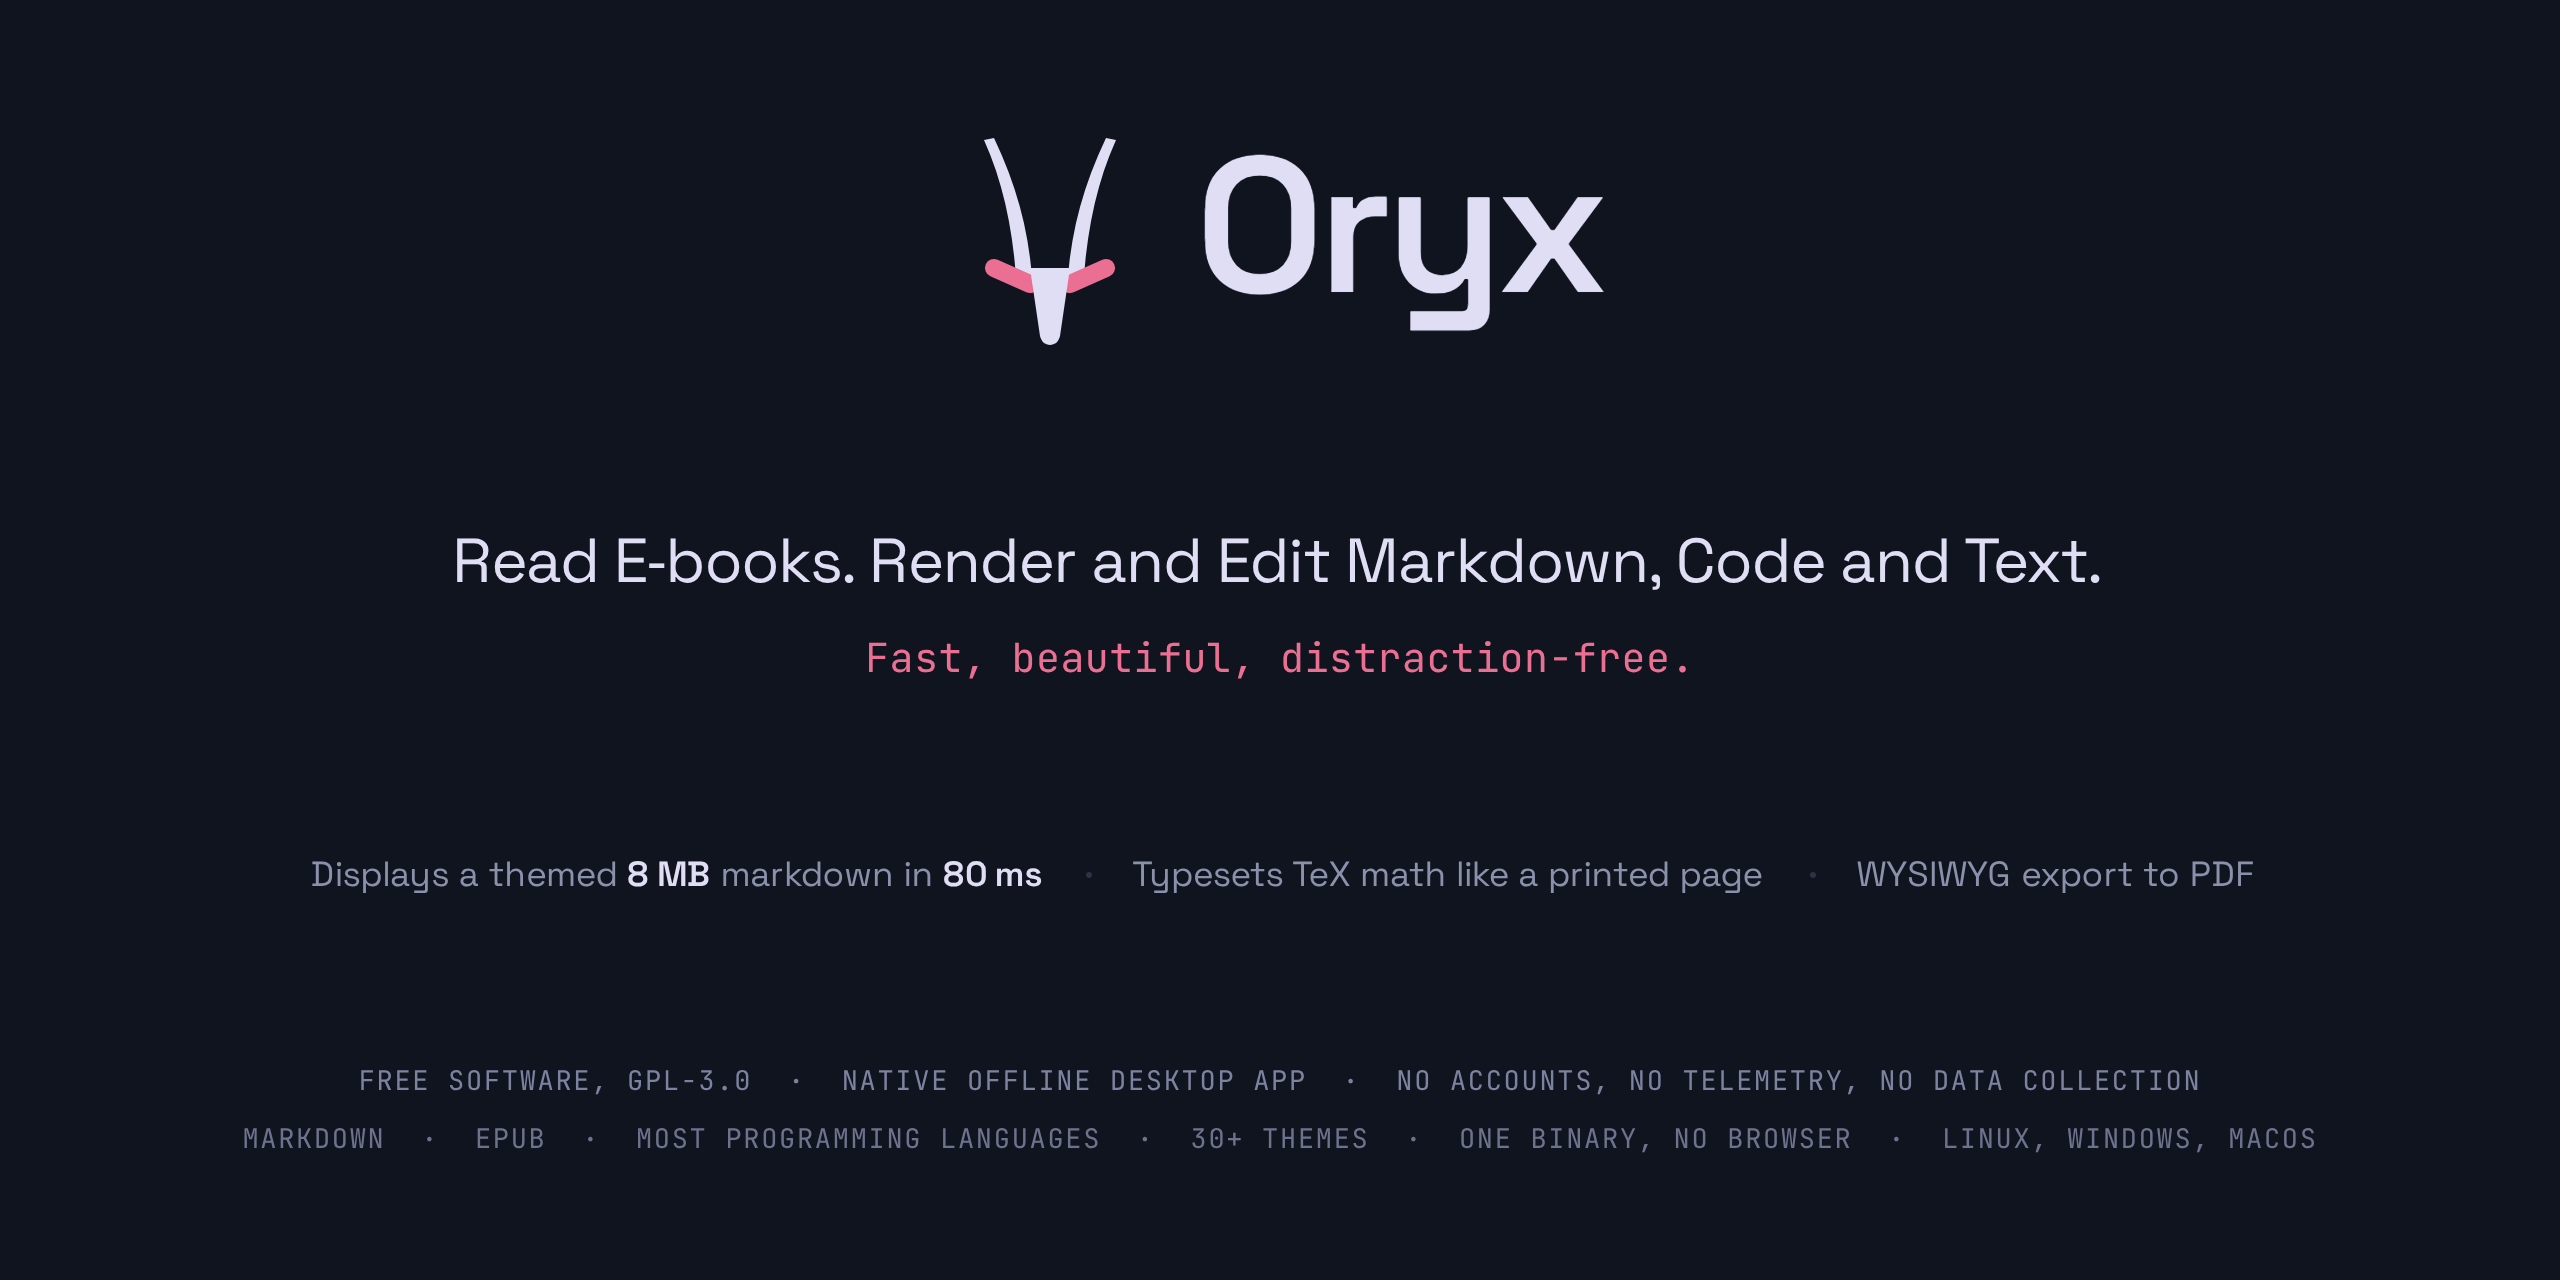
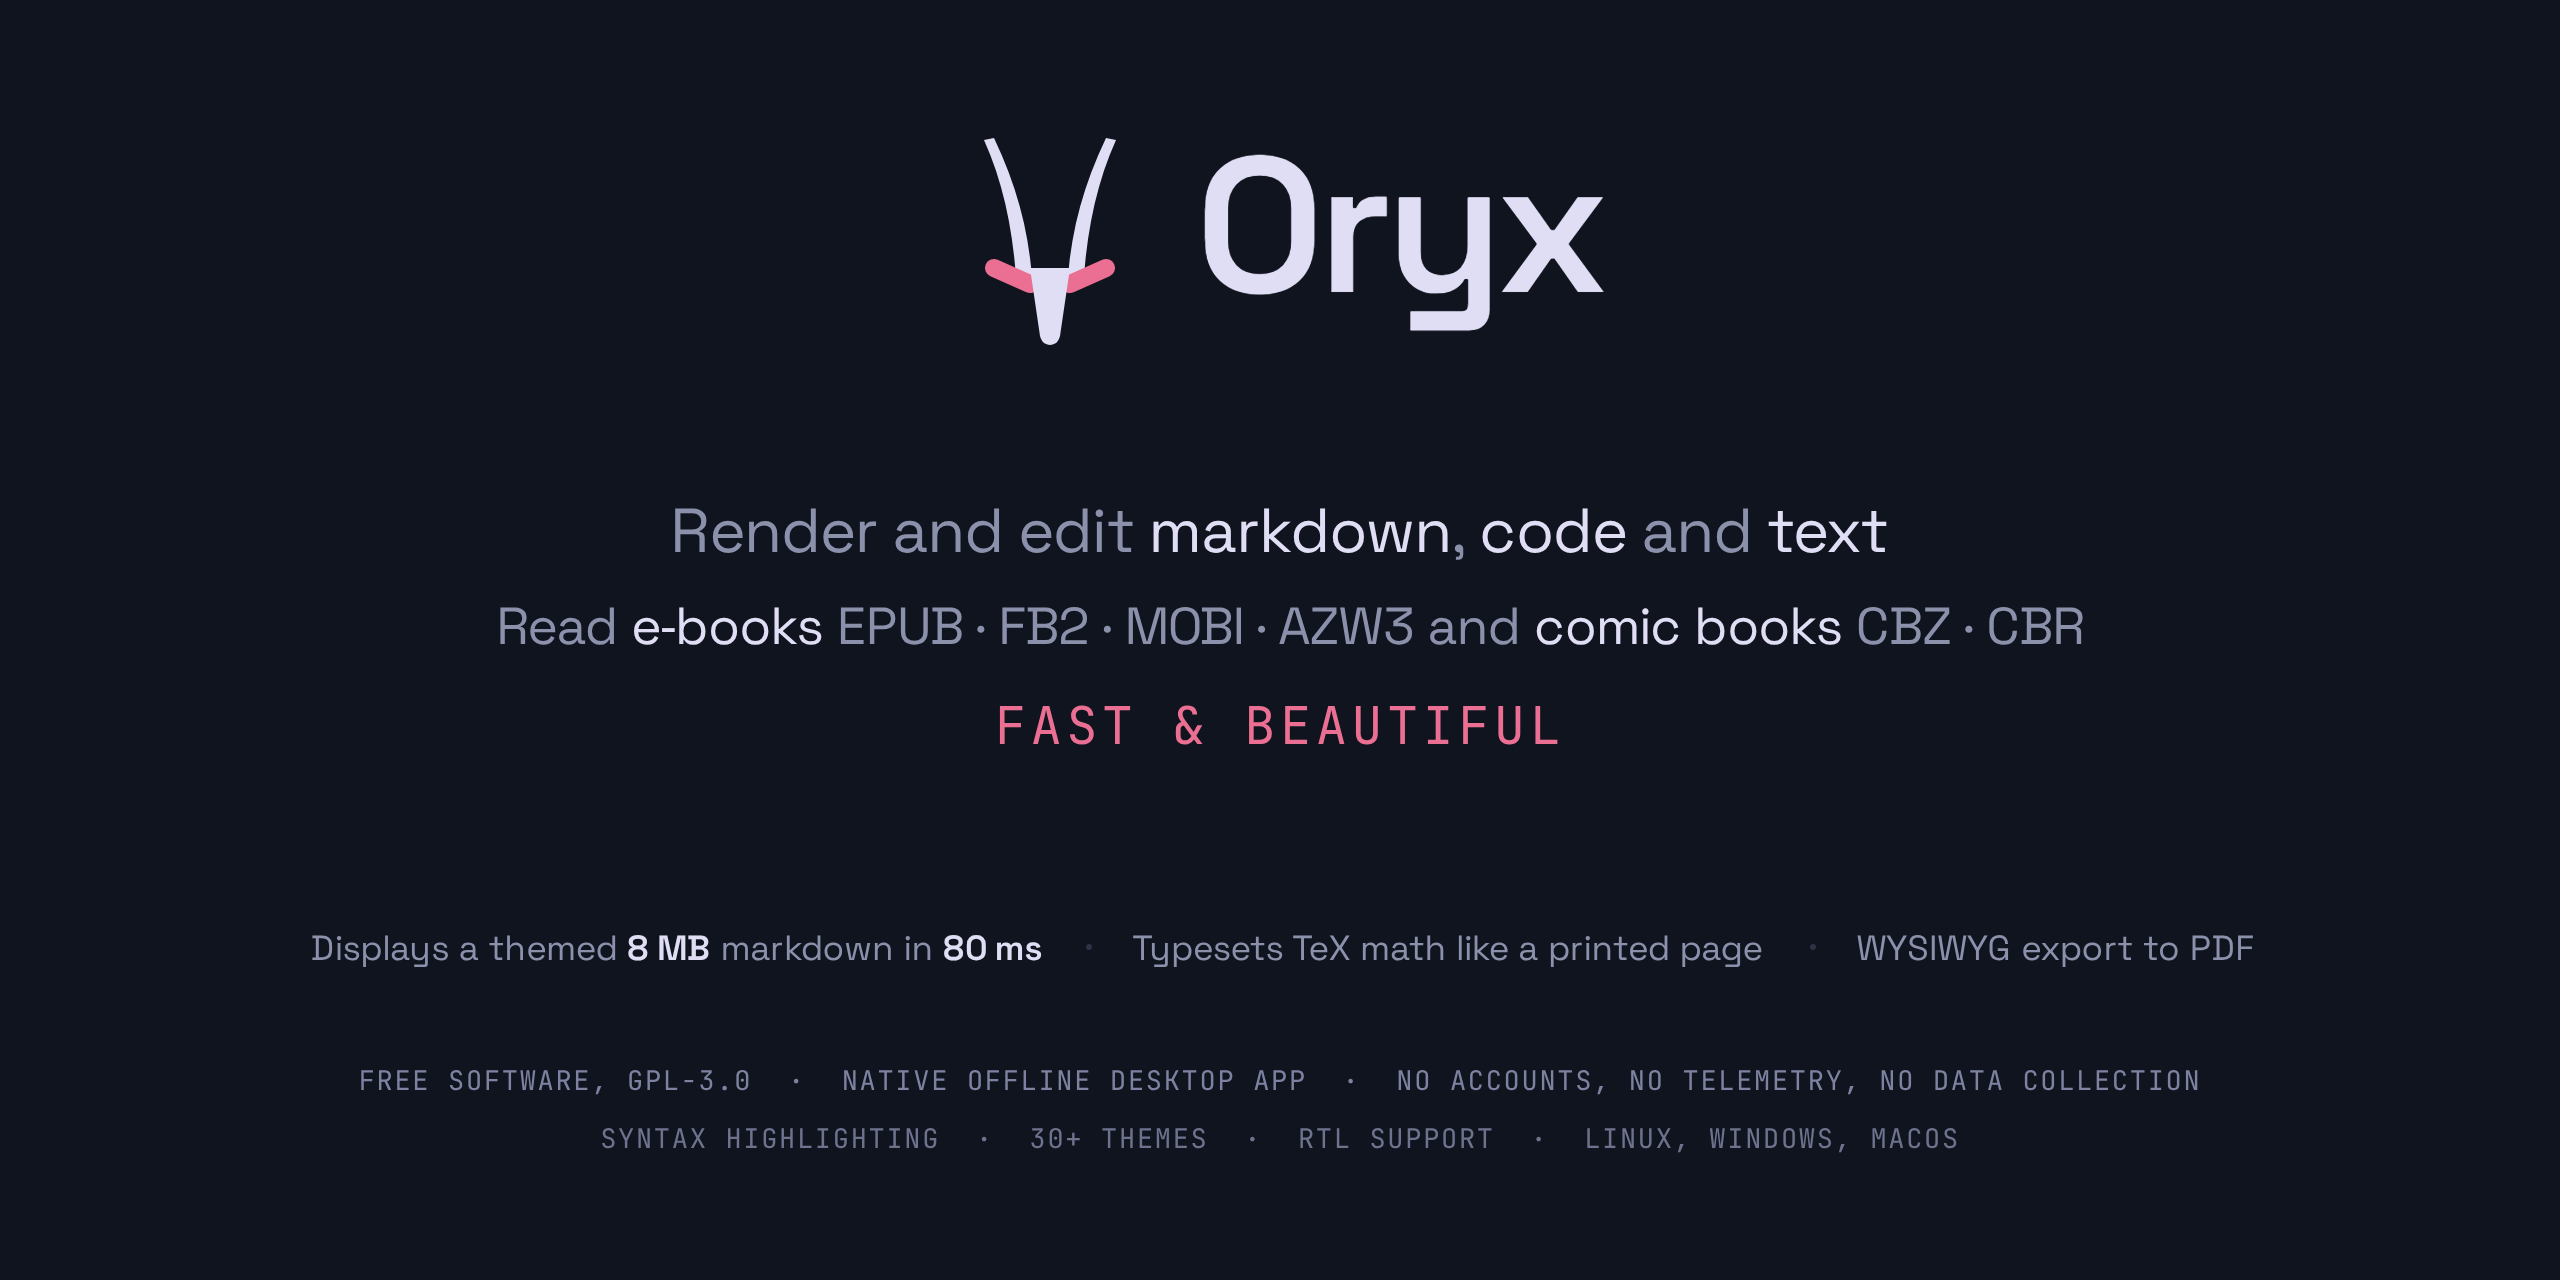
chore: 0.15.7, Arabic and Hebrew books read right to left

diff --git a/README.md b/README.md
@@ -11,6 +11,7 @@
 
 - [Installation](#install)
 - [Performance](#performance)
+- [Credits](#credits)
 
 ## Philosophy
 
@@ -67,9 +68,25 @@ The sidebar's Outline tab shows the book's own table of contents, follows the re
 
 DRM-protected books and fixed-layout EPUB books are not supported. The [examples](examples/) folder installed with Oryx includes *The Adventures of Sherlock Holmes* to try it on.
 
+### Arabic and Hebrew
+
+Oryx reads right-to-left books. The direction is detected paragraph by paragraph from the text itself (book metadata is often wrong about this), so a book that mixes English and Arabic shows each paragraph on its correct side. Justified Arabic stretches to both edges with the last line of each paragraph ending on the right, the way printed Arabic does. Lists, quotes and headings follow the direction of their text, and selection, search and PDF export work as in any other document.
+
+Two fonts are embedded for this: Amiri for Arabic (a revival of the typeface classical Arabic books were printed in) and David Libre for Hebrew (a digitization of David, a typeface widely used in Hebrew books). Arabic and Hebrew text is rendered in them whatever the selected body font is.
+
+<p align="center">
+  <img src="screenshots/rtl-ar.png" alt="An Arabic book in Oryx">
+</p>
+
+<p align="center">
+  <img src="screenshots/rtl-he.png" alt="A Hebrew book in Oryx">
+</p>
+
+If Oryx reads a book's direction wrong, `Ctrl+D` switches it: automatic, right to left, left to right. The choice is remembered for each book.
+
 ### Comic books
 
-Oryx opens CBZ and CBR comic book archives and shows the pages in reading order. A comic starts as a vertical strip, every page at the window's width, which reads naturally for webtoons. `Ctrl+Minus` switches to one whole page per screen, and once more to two pages side by side, like an open book; `Ctrl+Plus` goes back up, and `Ctrl+0` shows the whole page from anywhere. In the page views, Up, Down and Space turn pages. The outline lists the pages, and Oryx reopens a comic at the page where reading stopped.
+Oryx opens CBZ and CBR comic book archives and shows the pages in reading order. A comic starts as a vertical strip, every page at the window's width, which reads naturally for webtoons. `Ctrl+Minus` switches to one whole page per screen, and once more to two pages side by side, like an open book; `Ctrl+Plus` goes back up, and `Ctrl+0` shows the whole page from anywhere. In the page views, Up, Down and Space turn pages. For comics that read right to left, like manga, `Ctrl+D` flips the two-page order, and Oryx remembers it for that comic. The outline lists the pages, and Oryx reopens a comic at the page where reading stopped.
 
 Comic book contents are analyzed and files processed accordingly, not by name, so a `.cbr` that is really a `zip` (they are common) works anyway. When an archive is password-protected or damaged, Oryx displays the problem. Compressed `CBR` files are rare and not supported.
 
@@ -176,7 +193,7 @@ make install
 `make install` builds the release binary, installs it to `~/.local/bin`, copies the themes and examples to `~/.local/share/oryx` and registers the file association. Plain `cargo build --release` works too; the binary looks for `themes/` next to itself, in the XDG data directory, and in the working directory.
 
 > [!TIP]
-> Use a release build for everyday reading, because a debug build is noticeably slower on code-heavy documents.
+> Use a release build, because a debug build is noticeably slower on code-heavy documents.
 
 ## Using Oryx
 
@@ -228,6 +245,7 @@ oryx --version          # print the version
 | `Ctrl+Plus` / `Ctrl+Minus` | Zoom in / out; in a comic, switch between page views |
 | `Ctrl+0` | Reset zoom; in a comic, show the whole page |
 | `Ctrl+J` | Justify prose (markdown and books) |
+| `Ctrl+D` | Reading direction: automatic, right to left, left to right |
 | **Export** | |
 | `Ctrl+P` | Export to PDF |
 | `Ctrl+Shift+P` | Choose export settings, then export |
@@ -239,7 +257,7 @@ oryx --version          # print the version
 
 ## Performance
 
-Performance is one of the reasons behind Oryx. Most markdown viewers start struggling above one megabyte of file size, without even offering a decent look. Oryx offers the same beautiful reading experience, whatever the file size and whatever the machine. Here is how it works:
+Performance is one of the motivations behind Oryx. Many markdown viewers start struggling above one megabyte of file size, without even offering a decent look. Oryx keeps the same beautiful reading experience, whatever the file size and whatever the machine. Benchmarks have been reproduced for all supported file types, like ebooks. Here is how it works:
 
 For a big markdown file, Oryx parses only its first screens before the first paint and the rest arrives from a background thread. It uses all CPU cores to build the layout, for the wash-in below the first screens as well as every zoom or resize. Only the part of the document around the reading position is kept in drawn form, and scrolling rebuilds the landing from recorded positions in about a millisecond; memory stays flat however long the document is. Painting covers a band around the viewport, a couple of screens either side, and scrolling inside that band is a memory copy: the cost of a scroll frame does not depend on the document's length. Syntax highlighting and the layout below follow in the background, a slice at a time, without moving anything already on screen.
 
@@ -268,7 +286,7 @@ The 8 MB markdown export writes a 9219-page file. While open, the 8 MB markdown 
 
 ## Credits
 
-DejaVu Sans, Courier Prime and STIX Two Math are embedded in the binary. DejaVu is distributed under the DejaVu Fonts License, Courier Prime and STIX Two Math under the SIL Open Font License. STIX renders the math and stays out of the font picker. The settings dialog can switch the text fonts to any family installed on the system.
+DejaVu Sans, Courier Prime, STIX Two Math, Amiri and David Libre are embedded in the binary. DejaVu is distributed under the DejaVu Fonts License, the other four under the SIL Open Font License. STIX renders the math and stays out of the font picker; Amiri renders Arabic and David Libre renders Hebrew. The settings dialog can switch the text fonts to any family installed on the system.
 
 The sample book in [examples](examples/) is the [Standard Ebooks](https://standardebooks.org) edition of *The Adventures of Sherlock Holmes*, in the public domain and dedicated with CC0 by its producers.
 
@@ -310,6 +328,8 @@ The sample book in [examples](examples/) is the [Standard Ebooks](https://standa
 Each grammar ships with its license text beside the source under `assets/syntaxes/`.
 
 </details>
+
+<br>
 
 <div align="center">
 
